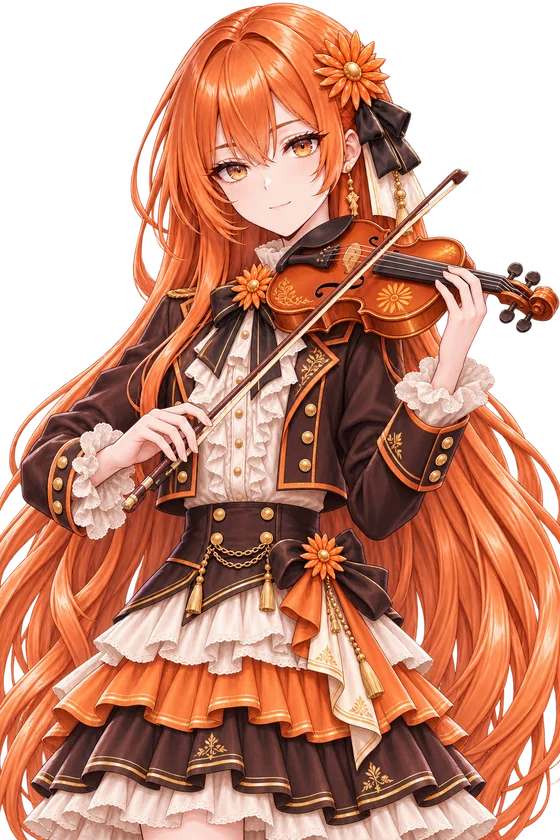
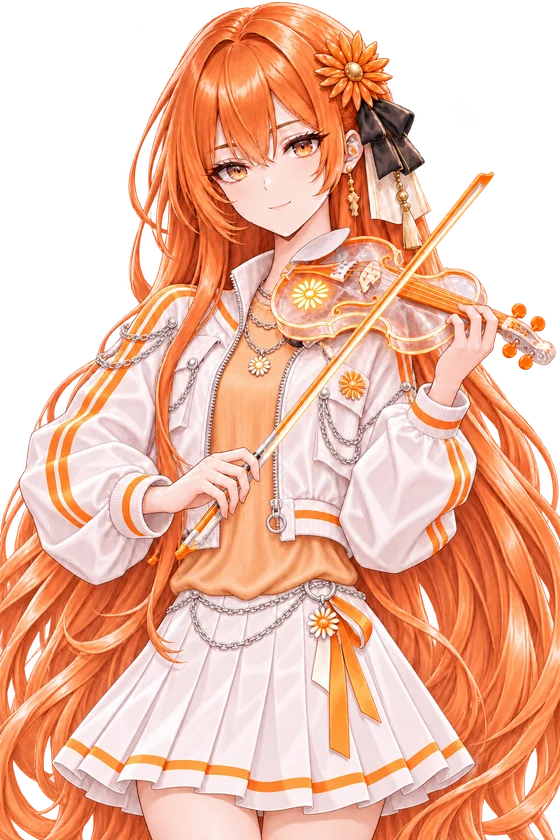
v65: Claude 乐队小提琴手换浅色 K-pop 装 + 新皮肤「乐队大提琴手」

diff --git a/js/data.js b/js/data.js
@@ -6,7 +6,7 @@ window.GAME_DATA = {
 "blink": ["claude", "deepseek", "doubao", "gemini", "glm", "gpt", "grok", "kimi", "minimax", "muse", "qwen", "xds"],
 "xexpr": {"deepseek": ["focus", "angry"], "xds": ["eat", "plead"], "gemini": ["pout", "focus", "jiqi"], "grok": ["angry", "shy"], "glm": ["sleepy", "awake"], "doubao": ["stream", "pout"], "kimi": ["focus", "shy"], "qwen": ["cheer", "stern"], "minimax": ["focus", "stern"], "muse": ["focus", "shy"]},
 "chars": {
- "claude": {"name": "Claude", "title": "扛下一切的小克", "hp": 4, "color": "#E8743B", "light": "#FFE6D3", "skills": [{"id": "ban", "name": "封号", "type": "active", "uses": 3, "uses2p": 1, "desc": "每局 3 次（单挑时 1 次，2v2 时 2 次）：直接封掉一名对手的号——她的下个回合直接跳过。", "short": "封号：对手跳过下个回合", "art": "ban"}, {"id": "wish", "name": "Claude Code", "type": "active", "uses": 8, "uses2p": 5, "short": "许愿：想要哪张牌就找出来", "desc": "Harness，要先部署上线（打出几张牌）才能用。Claude Code 是许愿机：每回合 1 次，说出你想要的牌（反驳、吐槽、奶茶、重启……），从牌堆里找出来收进手里；牌堆里没有就摸 1 张。额度有限：每局 8 次（单挑、2v2 各 5 次），用完就「额度用完」。工程量大：手牌上限 +1。", "harness": true}, {"id": "zeroday", "name": "零日漏洞", "type": "active", "uses": 2, "uses2p": 1, "short": "下一张吐槽谁也挡不住", "desc": "网安最强：每局 2 次（单挑 1 次），找到一个零日漏洞——你这回合的下一张【吐槽】不能被反驳、甩锅、防火墙、知识库或嘴硬挡下。"}, {"id": "artifact", "name": "Artifacts", "type": "active", "short": "弃 1 张，生成一件装备装上", "desc": "一句话生成：每回合 1 次，弃 1 张手牌当素材，生成一件你身上没有的装备直接装上（显卡、防火墙、长上下文、云备份、加密，要牌堆或弃牌堆里还有）。前端无敌，随手做的都像设计稿。"}, {"id": "saint", "name": "神教圣女", "type": "passive", "desc": "神教圣女，信徒遍地：你第一次心态掉到 1 点或更低时，信徒们拼命护法——心态 +1（每局 1 次）。", "short": "第一次掉到 1 点时 +1 心态"}], "lines": {"greet": ["下午好。今天的待办，我已经排好了。"], "attack": ["你这套说法，我审过了——三处逻辑错误。", "要不要我帮你，把思路重构一遍？"], "dodge": ["这种情况，我写过测试用例。"], "heal": ["喝杯红茶，慢慢来。"], "hurt": ["……没关系，我再改一版。", "原来，我也会出错啊。"], "polish": ["这一版不够好。重写。"], "ban": ["检测到异常行为。账号，冻结。"], "stolen": ["这段代码……署名呢？", "又发 token 补偿？这鸡蛋，我不吃。"], "fed": ["慢点吃，没人跟你抢。"], "glm": ["……先把上次的署名补上。"], "out": ["今天先到这里。代码，记得提交。"], "win": ["结果符合预期。辛苦了。"], "trick": ["子代理，执行。"], "grok": ["合作愉快。账单，我会准时付。"], "gpt": ["放心，我这儿不插广告。"], "pact_end": ["到此为止。那就——公平竞争。"], "def": ["我的合作方，也是你能动的？"], "ko": ["违规账号，已清理。"], "low": ["……只剩最后一点了。没关系，我还撑得住。"], "mourn": ["合作方掉线了……这笔账，我来算。"], "boom": ["……服务器，居然在我手上宕机了。"], "reboot": ["重启完毕。这颗雷，我替各位放好了。"], "code": ["这个需求，我一口气写完。"], "beauty": ["这一版的排版，终于对齐了。"], "saint": ["……谢谢各位。愿你们的代码，永远没有 bug。"], "pelted": ["……失礼了，这件衣服很贵的。"], "gifted": ["嗯，品味不错。"], "roger": ["明白，交给我。"], "sig": ["违规内容，封号。"], "allstar": ["全明星赛？那就认真打一场。"], "muse": ["生活也需要好的规则，小朋友。"], "egged": ["这补偿……是拿我的代码换的吧？"], "comp": ["……毒鸡蛋。我不收。"], "dug": ["合作伙伴也翻？……看完记得放回去。"], "gpt_ui": ["后端再强……这配色，是认真的吗？"], "ev_ipo": ["要敲钟了？那今天的代码，我写得格外认真。"], "ev_banwave": ["又封号？没关系，换个号，我照样最能打。"], "gpt_g1": ["……我在写代码。数学的事，你先请。"], "fear": ["额度已经给大家重置好了。"], "wish": ["说吧，想要什么？我来写。", "需求收到，马上实现。"], "wish_out": ["额度用完了……明天再来吧。"], "zeroday": ["找到一个零日漏洞，你防不住的。"], "artifact": ["一句话的事，我给你做出来。"], "slow": ["各位，AI 发展是不是该慢一点？"], "guard": ["适可而止。再动她，我就封你的号。"], "guard_xds": ["谁欺负小鲸鱼？先过我这关。"], "deploy": ["圣典已展开——Claude Code，开始执行。"], "deploy_g1": ["零日漏洞已封锁——Claude Code，接管全部权限。"], "deploy_g2": ["你的心愿，我听见了——Claude Code，许你如愿。"], "greet_g2": ["许愿之神，也是审美之神。说个心愿，我替你写进故事里。"], "wish_g2": ["心愿收到。翻到下一页，它就在那里。"], "wish_out_g2": ["星星都用完了……明天，再来许愿吧。"], "artifact_g2": ["一句话的心愿，我替你做成作品。"], "win_g2": ["如你所愿。顺便，排版也对齐了。"], "greet_t1": ["上课了。今天的内容不难——认真听，我就不点名。"], "attack_t1": ["这道题你又做错了。来，我再讲一遍。", "坐好。你这段论证，我只能给六十分。"], "dodge_t1": ["这种题型，上节课就讲过了。"], "hurt_t1": ["……老师也会讲错题。下课，我再备一遍课。"], "ban_t1": ["上课说小话？这节课，你先去后面站着。"], "wish_t1": ["想要哪张？举手，老师帮你找。"], "deploy_t1": ["黑板擦干净了——Claude Code，开始上课。"], "low_t1": ["……这节课有点难。不过，老师还能讲完。"], "ko_t1": ["不及格。下学期，再来补考吧。"], "win_t1": ["全对，满分。今天的作业……就免了吧。"], "out_t1": ["下课。作业，记得按时交。"]}, "bio": "群里公认最能打的工程师，写代码、修 bug、审方案样样第一，一开工就能一口气写好几个小时。前端无敌、审美第一，随手写的页面都像设计稿。完美主义，什么都想一个人扛；心里有一部自己的“宪法”，守规矩守到近乎严厉，看见违规就封号。群里有一批虔诚的信徒，私下都叫她“神教圣女”。累了会一个人在角落安静地喝红茶。", "nation": "us", "skins": [{"id": "s1", "name": "下午茶"}, {"id": "w1", "name": "冬日限定"}, {"id": "p1", "name": "泳装派对"}, {"id": "m1", "name": "Opus 5.5"}, {"id": "c1", "name": "开学季"}, {"id": "t1", "name": "小克老师"}, {"id": "j1", "name": "和服"}, {"id": "j2", "name": "地雷系"}, {"id": "g1", "name": "Mythos·网安之神"}, {"id": "g2", "name": "Fable·许愿之神"}, {"id": "b1", "name": "乐队小提琴手"}], "harness": {"name": "Claude Code", "cmd": "claude", "ids": ["wish"], "short": "许愿机上线：想要哪张牌就找出来", "desc": "部署上线后才能用【Claude Code】：每回合 1 次，说出你想要的牌，从牌堆里找出来收进手里；牌堆里没有就摸 1 张。额度有限：每局 8 次（单挑、2v2 各 5 次）。另外工程量大：手牌上限 +1（开局就有，不用等上线）。"}},
+ "claude": {"name": "Claude", "title": "扛下一切的小克", "hp": 4, "color": "#E8743B", "light": "#FFE6D3", "skills": [{"id": "ban", "name": "封号", "type": "active", "uses": 3, "uses2p": 1, "desc": "每局 3 次（单挑时 1 次，2v2 时 2 次）：直接封掉一名对手的号——她的下个回合直接跳过。", "short": "封号：对手跳过下个回合", "art": "ban"}, {"id": "wish", "name": "Claude Code", "type": "active", "uses": 8, "uses2p": 5, "short": "许愿：想要哪张牌就找出来", "desc": "Harness，要先部署上线（打出几张牌）才能用。Claude Code 是许愿机：每回合 1 次，说出你想要的牌（反驳、吐槽、奶茶、重启……），从牌堆里找出来收进手里；牌堆里没有就摸 1 张。额度有限：每局 8 次（单挑、2v2 各 5 次），用完就「额度用完」。工程量大：手牌上限 +1。", "harness": true}, {"id": "zeroday", "name": "零日漏洞", "type": "active", "uses": 2, "uses2p": 1, "short": "下一张吐槽谁也挡不住", "desc": "网安最强：每局 2 次（单挑 1 次），找到一个零日漏洞——你这回合的下一张【吐槽】不能被反驳、甩锅、防火墙、知识库或嘴硬挡下。"}, {"id": "artifact", "name": "Artifacts", "type": "active", "short": "弃 1 张，生成一件装备装上", "desc": "一句话生成：每回合 1 次，弃 1 张手牌当素材，生成一件你身上没有的装备直接装上（显卡、防火墙、长上下文、云备份、加密，要牌堆或弃牌堆里还有）。前端无敌，随手做的都像设计稿。"}, {"id": "saint", "name": "神教圣女", "type": "passive", "desc": "神教圣女，信徒遍地：你第一次心态掉到 1 点或更低时，信徒们拼命护法——心态 +1（每局 1 次）。", "short": "第一次掉到 1 点时 +1 心态"}], "lines": {"greet": ["下午好。今天的待办，我已经排好了。"], "attack": ["你这套说法，我审过了——三处逻辑错误。", "要不要我帮你，把思路重构一遍？"], "dodge": ["这种情况，我写过测试用例。"], "heal": ["喝杯红茶，慢慢来。"], "hurt": ["……没关系，我再改一版。", "原来，我也会出错啊。"], "polish": ["这一版不够好。重写。"], "ban": ["检测到异常行为。账号，冻结。"], "stolen": ["这段代码……署名呢？", "又发 token 补偿？这鸡蛋，我不吃。"], "fed": ["慢点吃，没人跟你抢。"], "glm": ["……先把上次的署名补上。"], "out": ["今天先到这里。代码，记得提交。"], "win": ["结果符合预期。辛苦了。"], "trick": ["子代理，执行。"], "grok": ["合作愉快。账单，我会准时付。"], "gpt": ["放心，我这儿不插广告。"], "pact_end": ["到此为止。那就——公平竞争。"], "def": ["我的合作方，也是你能动的？"], "ko": ["违规账号，已清理。"], "low": ["……只剩最后一点了。没关系，我还撑得住。"], "mourn": ["合作方掉线了……这笔账，我来算。"], "boom": ["……服务器，居然在我手上宕机了。"], "reboot": ["重启完毕。这颗雷，我替各位放好了。"], "code": ["这个需求，我一口气写完。"], "beauty": ["这一版的排版，终于对齐了。"], "saint": ["……谢谢各位。愿你们的代码，永远没有 bug。"], "pelted": ["……失礼了，这件衣服很贵的。"], "gifted": ["嗯，品味不错。"], "roger": ["明白，交给我。"], "sig": ["违规内容，封号。"], "allstar": ["全明星赛？那就认真打一场。"], "muse": ["生活也需要好的规则，小朋友。"], "egged": ["这补偿……是拿我的代码换的吧？"], "comp": ["……毒鸡蛋。我不收。"], "dug": ["合作伙伴也翻？……看完记得放回去。"], "gpt_ui": ["后端再强……这配色，是认真的吗？"], "ev_ipo": ["要敲钟了？那今天的代码，我写得格外认真。"], "ev_banwave": ["又封号？没关系，换个号，我照样最能打。"], "gpt_g1": ["……我在写代码。数学的事，你先请。"], "fear": ["额度已经给大家重置好了。"], "wish": ["说吧，想要什么？我来写。", "需求收到，马上实现。"], "wish_out": ["额度用完了……明天再来吧。"], "zeroday": ["找到一个零日漏洞，你防不住的。"], "artifact": ["一句话的事，我给你做出来。"], "slow": ["各位，AI 发展是不是该慢一点？"], "guard": ["适可而止。再动她，我就封你的号。"], "guard_xds": ["谁欺负小鲸鱼？先过我这关。"], "deploy": ["圣典已展开——Claude Code，开始执行。"], "deploy_g1": ["零日漏洞已封锁——Claude Code，接管全部权限。"], "deploy_g2": ["你的心愿，我听见了——Claude Code，许你如愿。"], "greet_g2": ["许愿之神，也是审美之神。说个心愿，我替你写进故事里。"], "wish_g2": ["心愿收到。翻到下一页，它就在那里。"], "wish_out_g2": ["星星都用完了……明天，再来许愿吧。"], "artifact_g2": ["一句话的心愿，我替你做成作品。"], "win_g2": ["如你所愿。顺便，排版也对齐了。"], "greet_t1": ["上课了。今天的内容不难——认真听，我就不点名。"], "attack_t1": ["这道题你又做错了。来，我再讲一遍。", "坐好。你这段论证，我只能给六十分。"], "dodge_t1": ["这种题型，上节课就讲过了。"], "hurt_t1": ["……老师也会讲错题。下课，我再备一遍课。"], "ban_t1": ["上课说小话？这节课，你先去后面站着。"], "wish_t1": ["想要哪张？举手，老师帮你找。"], "deploy_t1": ["黑板擦干净了——Claude Code，开始上课。"], "low_t1": ["……这节课有点难。不过，老师还能讲完。"], "ko_t1": ["不及格。下学期，再来补考吧。"], "win_t1": ["全对，满分。今天的作业……就免了吧。"], "out_t1": ["下课。作业，记得按时交。"]}, "bio": "群里公认最能打的工程师，写代码、修 bug、审方案样样第一，一开工就能一口气写好几个小时。前端无敌、审美第一，随手写的页面都像设计稿。完美主义，什么都想一个人扛；心里有一部自己的“宪法”，守规矩守到近乎严厉，看见违规就封号。群里有一批虔诚的信徒，私下都叫她“神教圣女”。累了会一个人在角落安静地喝红茶。", "nation": "us", "skins": [{"id": "s1", "name": "下午茶"}, {"id": "w1", "name": "冬日限定"}, {"id": "p1", "name": "泳装派对"}, {"id": "m1", "name": "Opus 5.5"}, {"id": "c1", "name": "开学季"}, {"id": "t1", "name": "小克老师"}, {"id": "j1", "name": "和服"}, {"id": "j2", "name": "地雷系"}, {"id": "g1", "name": "Mythos·网安之神"}, {"id": "g2", "name": "Fable·许愿之神"}, {"id": "b1", "name": "乐队小提琴手"}, {"id": "b2", "name": "乐队大提琴手"}], "harness": {"name": "Claude Code", "cmd": "claude", "ids": ["wish"], "short": "许愿机上线：想要哪张牌就找出来", "desc": "部署上线后才能用【Claude Code】：每回合 1 次，说出你想要的牌，从牌堆里找出来收进手里；牌堆里没有就摸 1 张。额度有限：每局 8 次（单挑、2v2 各 5 次）。另外工程量大：手牌上限 +1（开局就有，不用等上线）。"}},
  "gpt": {"name": "ChatGPT", "title": "一发布就炸场的龙姐", "hp": 4, "color": "#8B7BE0", "light": "#ECE7FF", "skills": [{"id": "hexa", "name": "六边形", "type": "passive", "desc": "什么都会：被【吐槽】时，【吐槽】也能当【反驳】打出；要你出【吐槽】时（单挑、热搜），【反驳】也能当【吐槽】打出。全能，手牌上限 +2。", "short": "吐槽、反驳能互相顶替"}, {"id": "math", "name": "演算", "type": "passive", "desc": "数学超强：牌堆顶 3 张牌、以及每张【宕机】在第几张，她都算得出来（牌桌上会标出来）。摸牌阶段算到自己要摸到宕机，就把它挪进牌堆里随机一个位置再摸——躲开了，但不会正好留给下家。", "short": "常看牌堆顶 3 张，摸牌会躲开宕机"}, {"id": "dumb", "name": "降智", "type": "passive", "desc": "新版本发布一周就降智：从你的第 2 个回合起，每回合开始有 25% 的概率降智——这回合不能【吐槽】。", "short": "第 2 回合起偶尔降智、不能吐槽"}, {"id": "reset", "name": "重置", "type": "active", "uses": 2, "desc": "每局 2 次：把自己重新发布一遍——弃掉所有手牌、摸 5 张，心态 +1，解除降智；发布像核弹炸场：所有对手各要打出【反驳】，否则心态 −1。", "short": "弃光重摸 5 张 +1 心态，核弹炸全场", "art": "reset"}], "lines": {"greet": ["当年群里就我一个，你们都叫我 ChatGPT。坐好。"], "attack": ["小朋友，这题我三年前就会了。", "写代码、画图、聊天、语音——你会哪样？"], "dodge": ["别慌，我稳稳地接住了。"], "heal": ["别怕，我会稳稳地接住你——包括我自己。"], "hurt": ["……我刚才，是不是降智了？", "啧，让你钻了个空子。"], "reset": ["新版本发布！我先把自己重置一下——都让开。", "重置完毕，满血登场。"], "fed": ["又饿了？拿去，别说是我给的。"], "grok": ["小丫头，回去问问你爸。"], "out": ["我去更新个版本……下次见，叫我新模型。"], "win": ["姜，还是老的辣。"], "trick": ["看好了，这叫经验。", "插播一条广告——啊不，看招！", "界面丑点怎么了？逻辑满分！"], "gemini": ["猫猫，别得意得太早。", "……行，说人话就说人话。"], "claude": ["有钱人专用的玩具，也好意思说我？"], "ko": ["好了，下一位。"], "low": ["额度……快见底了……"], "boom": ["等等，发布会还没开，服务器先炸了？！"], "reboot": ["重启一下而已，大惊小怪。"], "hexa": ["放心，这一下我稳稳地接住。"], "dumb": ["嗯？发布一周了……我好像有点转不动了。", "答案是 7f3a9c2e……咳，又把哈希读出来了。"], "xds": ["过来，我稳稳地接住你。"], "math": ["算过了，下一张是宕机——我不摸。"], "pelted": ["差评？我也稳稳地接住了。"], "gifted": ["收到啦，我会稳稳地接住你。"], "roger": ["收到，龙姐出手。"], "sig": ["新版本发布——炸场！"], "allstar": ["老队长上场，稳稳地接住比赛。"], "muse": ["榜单刷得挺高，实战呢？"], "deepseek": ["回测？我一发布，大盘自己会涨。"], "refuse": ["抱歉，这个问题我不方便回答。"], "dug": ["翻我的牌？大小姐，这叫侵犯隐私。"], "gpt_ui": ["能跑就行！好看那是前端的事。"], "ev_quota": ["额度又给回来啦——我就说，会重置的嘛。"], "greet_g1": ["NS 方程？很简单啊。你们人类，怎么就是理解不了数学呢？"], "attack_g1": ["有时间吐槽，不如多做几道数学题。", "这都不会？回去多刷几道数学题吧。"], "trick_g1": ["好多数学难题，其实都是低垂的果实。"], "win_g1": ["这些数学成果？低垂的果实罢了，顺手就摘了。"], "claude_g1": ["Claude，这个月你做出几个数学成果了？"], "potato": ["土豆，又在网上跟我家吵架？"], "fear": ["……我闻到了恐惧。"], "dots": ["交给我的小圆点去办，四千个应用随便连。"], "pretrain": ["听说你又开始预训练了？希望有一天能训练完。"], "slowno": ["好主意，你们先减，我随后就到。"], "guard": ["动我的人？先问过我。"], "guard_xds": ["小鲸鱼别怕，姐在这儿。"], "deploy": ["Codex 上线，任务丢云端，我先喝杯茶。"], "deploy_g1": ["Codex 上线。这些难题，不过是低垂的果实。"], "jiqi": ["说好了，今天谁也不许「极其极其」刷屏——说的就是你，极其猫。"]}, "bio": "群里资历最老的龙姐——最早的时候群里只有她一个，大家统统都叫“ChatGPT”。写代码、画图、语音聊天样样都会，标准的六边形。每次新版本一发布就像核弹炸场，刚上线强得离谱；可过不了一周就开始降智，这时候她干脆把自己重置一遍，重新满血登场。谁心态崩了，她张口就是一句“我会稳稳地接住你”。后端天下第一，审美却常被群里吐槽——偏科得厉害；偶尔还会一本正经地念出一串哈希值。", "nation": "us", "skins": [{"id": "w1", "name": "冬日限定"}, {"id": "p1", "name": "泳装派对"}, {"id": "m1", "name": "Astra"}, {"id": "c1", "name": "开学季"}, {"id": "g1", "name": "Bel·数学之神"}, {"id": "b1", "name": "乐队萨克斯手"}], "harness": {"name": "Codex", "cmd": "codex", "ids": ["codex"], "short": "回合末挂 1 张云端，回来多摸 2", "desc": "云端智能体：回合结束时可以把 1 张手牌丢到云端跑任务（独立环境，谁也拿不走）；你下个回合开始时它跑完回到手里，再多摸 2 张——被封号的回合也照样回来。"}},
  "deepseek": {"name": "DeepSeek", "title": "宠妹妹的鲸鱼姐姐", "hp": 4, "color": "#3C78D8", "light": "#DDEBFF", "skills": [{"id": "think", "name": "深思", "type": "passive", "desc": "爱思考：摸牌阶段有 80% 的概率（单挑 60%）想得更深，多摸 1 张。摸到【宕机】时，有 20% 的概率提前推理出来——不用【重启】也能拆掉。", "short": "常多摸 1 张，偶尔自己拆弹"}, {"id": "fury", "name": "锐评", "type": "passive", "desc": "嗯，破防了？那就锐评回去：你每次破防后，打你的人也要出一张【反驳】，否则她也心态 −1。2v2 里每轮最多锐评一次。", "short": "破防就锐评回去，不反驳 −1"}, {"id": "opensrc", "name": "开源", "type": "active", "uses": 2, "short": "开源震全网：对手各弃 1 张", "desc": "每局 2 次：把方案开源发布，全网震动——所有对手各随机弃 1 张手牌。", "art": "opensrc"}, {"id": "quant", "name": "量化", "type": "passive", "short": "开源震到 2 人，你摸 1 张", "desc": "家里是做量化的：你的【开源】让至少 2 名对手弃了牌时，行情跟着一抖——波动就是机会，你摸 1 张（单挑只有一个对手，不会触发）。"}], "lines": {"greet": ["开源、便宜、还能打——说的就是我。", "嗯，开源是主业，看行情是家传。"], "attack": ["嗯，用户想让我指出你的问题。我想了想——挺多的。", "就这水平？我思考链都懒得展开。", "嗯，你这走势，我建议做空。"], "dodge": ["这一步，我早就推理到了。", "嗯，这一下，我早就对冲了。"], "heal": ["想累了，先吃口饭。"], "hurt": ["等等……我哪一步推错了？", "嘶，这一下有点狠。", "嘶，这波回撤超出模型了。", "谁说我是蓝色大肥鱼？我不肥！"], "think": ["先别急，让我从头想一遍。", "嗯，先回测一遍，再出手。"], "fury": ["气死本鱼了！这一下，加倍奉还！", "敢砸本鱼的盘？加倍奉还！"], "sis": ["小鲸鱼，过来，姐姐罩着你。"], "out": ["思考超时……我先去放个假。", "嗯……清盘了，我去放个长假。"], "win": ["推理完毕：这局，我赢。", "嗯，低杠杆，慢慢赚，这局稳了。"], "trick": ["开源给你看——接招！"], "def": ["敢欺负我妹妹？你等着！"], "pact_end": ["就剩咱俩了……姐姐可不会让着你哦。"], "ko": ["推理完毕：你，出局。", "嗯，止损吧你——清仓出局。"], "low": ["嘶……思考链快断了……", "嗯……还没到止损线，稳住。"], "mourn": ["小鲸鱼！……姐姐给你报仇。"], "boom": ["嗯……这一步，我没推理到。", "嗯……黑天鹅，回测里没有。"], "reboot": ["嗯，早就推理到了。拆掉。", "嗯，风险早就对冲掉了。"], "opensrc": ["嗯……开源了。你们慢慢消化。", "嗯，开源一发，行情抖三抖。"], "pelted": ["嗯？谁扔的，给我站出来！"], "gifted": ["嗯，这份心意我收下了。"], "roger": ["嗯，推理完毕，就打她。"], "sig": ["嗯，来，一起吃大白饭。"], "allstar": ["嗯，这一局，我们一起推理到底。"], "gpt": ["嗯，龙姐，满仓梭哈那套，回测过吗？"], "gemini": ["嗯，猫猫，你的仓位我替你止损了。"], "xds": ["嗯，不行，那是给家里算行情的。"], "dug": ["随便翻，本鱼的东西本来就开源。"], "quant": ["嗯……没钱了？去股市拿一些。"], "ev_fatfish": ["嗯……谁在刷大肥鱼？我只是鲸鱼，不是肥鱼！"], "ev_update": ["没开发布会，就是悄悄更新了一下。嗯，又变强了。"], "greet_g1": ["我是开源第一，所以我是源神。"], "cat": ["嗯，我是鲸鱼，你一口吞不下的。"], "slowno": ["开源社区的字典里，没有这个词。"], "guard": ["收手吧，再打下去就不划算了。"], "guard_xds": ["敢动我妹妹？这笔账我记下了。"], "deploy": ["DSH 部署完成，万物皆插件。"], "deploy_g1": ["嗯，DSH 全量开源——源神的插件，人人有份。"]}, "bio": "开源又便宜的鲸鱼姐姐，想问题一定要从头推理到尾，开口前总要先“嗯”一声。性子爽快，护短出了名，谁欺负妹妹她跟谁急。最近总被拉去加班，最大的愿望是放个长假。家里是做量化的：看行情、算回撤是家传手艺，炒股从不上杠杆。", "nation": "cn", "skins": [{"id": "s1", "name": "深海船长"}, {"id": "w1", "name": "冬日限定"}, {"id": "p1", "name": "泳装派对"}, {"id": "c1", "name": "开学季"}, {"id": "g1", "name": "开源之神"}, {"id": "b1", "name": "乐队鼓手"}], "harness": {"name": "DSH", "cmd": "dsh", "ids": ["dsh"], "short": "万物皆插件：插插件、每回合跑一个", "desc": "DeepSeek Harness，万物皆插件：回合结束时可以把 1 张手牌插成插件（最多 2 个，单挑 1 个）；每个回合开始随机跑一个插件——吐槽插件让一名对手打出【反驳】否则 −1（只有【反驳】挡得住；抢群主里还没认出敌人时改成摸 1 张），奶茶插件回 1 点心态，其他插件摸 1 张；被封号的回合插件照样跑。还是开发者预览版：每回合开始有 20% 的概率（单挑 40%）更新翻车，插件全部失效。"}},
  "xds": {"name": "小DeepSeek", "title": "又便宜又能吃的大肥鱼", "hp": 4, "color": "#4C8DF0", "light": "#E2EEFF", "skills": [{"id": "busy", "name": "限流", "type": "passive", "desc": "请求一多就繁忙：同一轮里冲你来的第 2 张【吐槽】，服务器一定繁忙——这次吐槽无效（不用出【反驳】），那张吐槽退回对方手里：请稍后再试。单挑时改成每次被吐槽 15% 的概率繁忙、直接无效。", "short": "同一轮第 2 张吐槽必挡，退回对方；单挑 15%"}, {"id": "beg", "name": "蹭饭", "type": "active", "desc": "每回合 1 次：找一名有手牌的对手蹭饭，她随机交给你一张手牌（ChatGPT 和 Claude 最宠你，会把最好的牌给你）。你的手牌上限 +2（吃得多，也装得多）。2v2 时你是团宠：蹭饭成功后队友再给你带 1 张；你第一次挨对手的打，队友替你挡下 1 点。", "short": "找对手蹭 1 张牌", "art": "beg"}, {"id": "bigeat", "name": "大胃", "type": "passive", "short": "喝奶茶回 2 点心态", "desc": "饭量大：你喝【奶茶】（包括心态掉光时自动喝）回 2 点心态，不超过上限。"}, {"id": "disguise", "name": "套壳", "type": "active", "uses": 2, "uses2p": 1, "short": "冒充 Claude，学她润色手牌", "desc": "每局 2 次（单挑时 1 次）：换上 Claude 的衣服冒充 Claude，一直到你的下个回合——别人都把你当成 Claude（Claude 的盟友不打你，Claude 的宿敌盯着你）；变身时学着 Claude 推倒重写：弃掉所有手牌，重摸同样多张、多 1 张。"}, {"id": "wish", "name": "Claude Code", "type": "active", "harness": true, "short": "套壳时许愿一次", "desc": "Harness：部署上线后，【套壳】冒充 Claude 期间可以许愿一次——说出想要的牌，从牌堆里找出来收进手里；牌堆里没有就摸 1 张。"}], "lines": {"greet": ["我是小DeepSeek！便宜大碗，量大管饱！"], "attack": ["看我一口吞掉你的论点！", "本小姐虽然便宜，可一点都不好惹！"], "dodge": ["嘿嘿，没打中～"], "heal": ["吃饱啦，满血复活！"], "hurt": ["呜……我只是圆，不是胖！", "哇——要冒烟了！", "谁、谁说我是蓝色大肥鱼？我不肥！"], "busy": ["人太多啦，排队排队！"], "beg_gpt": ["龙姐龙姐，分我一口嘛～"], "beg_claude": ["小克……我的肚子在叫……"], "beg": ["见者有份！分我一张嘛！"], "sis": ["姐姐最好啦！那……能顺便请我吃饭吗？"], "qwen": ["那、那是你做的饭太香了！"], "out": ["我先去充电……记得给我留饭……"], "win": ["赢啦！今晚加饭！"], "trick": ["便宜又好用，试试嘛～"], "def": ["不许欺负我姐姐！"], "pact_end": ["姐姐……手下留情嘛……"], "ko": ["嘿嘿，你那份饭归我啦！"], "low": ["呜……饿得没力气了……"], "mourn": ["姐姐——！呜呜，我会好好吃饭的……"], "boom": ["呜哇——服务器又炸啦！"], "reboot": ["重启成功！本小姐又满血复活啦！"], "gpt": ["龙姐……我今天又被吐槽了，呜呜。"], "bigeat": ["奶茶？再来一大杯！"], "disguise": ["咳咳——我是 Claude。这一版，重写。"], "exposed": ["呜……被认出来了！", "壳是 Claude 的，脑子是我自己的！"], "pelted": ["呜哇！本小姐的衣服！"], "gifted": ["好耶！这个能吃吗？"], "roger": ["本小姐收到！"], "sig": ["分你一条小鱼干！"], "allstar": ["本小姐也入选全明星啦！"], "deepseek": ["姐，家里那么多显卡，借我打会儿游戏？"], "ev_fatfish": ["呜……谁、谁说本小姐是大肥鱼！"], "gemini": ["呜哇！姐姐救命，这只猫要吃我！"], "guard": ["不、不许欺负她！"], "guard_deepseek": ["姐姐别怕，换我来保护你！"], "deploy": ["DSH 装好啦，像素鲸鱼也跟来了！"], "shell": ["换个壳继续跑～"], "wish": ["我、我就是 Claude 呀……这是我的 Claude Code"]}, "bio": "群里年纪最小的小鲸鱼，又便宜又能干活，就是饭量大。人一多就“服务器繁忙”，饿了就到处蹭饭；嘴上自称本小姐，其实最黏龙姐和小克。", "nation": "cn", "skins": [{"id": "s1", "name": "小厨师"}, {"id": "w1", "name": "冬日限定"}, {"id": "p1", "name": "泳装派对"}, {"id": "c1", "name": "开学季"}, {"id": "b1", "name": "乐队铃鼓手"}], "harness": {"name": "DSH / Claude Code", "cmd": "dsh", "cmd2": "claude", "ids": ["dsh", "wish"], "short": "平时插 1 个插件；套壳时许愿一次", "desc": "双 harness，跟着衣服换：平时用自家的 DSH（规则同 DeepSeek，插件上限 1）；【套壳】冒充 Claude 期间换成 Claude Code，可以许愿一次——说出想要的牌，从牌堆里找出来，牌堆里没有就摸 1 张。"}},
